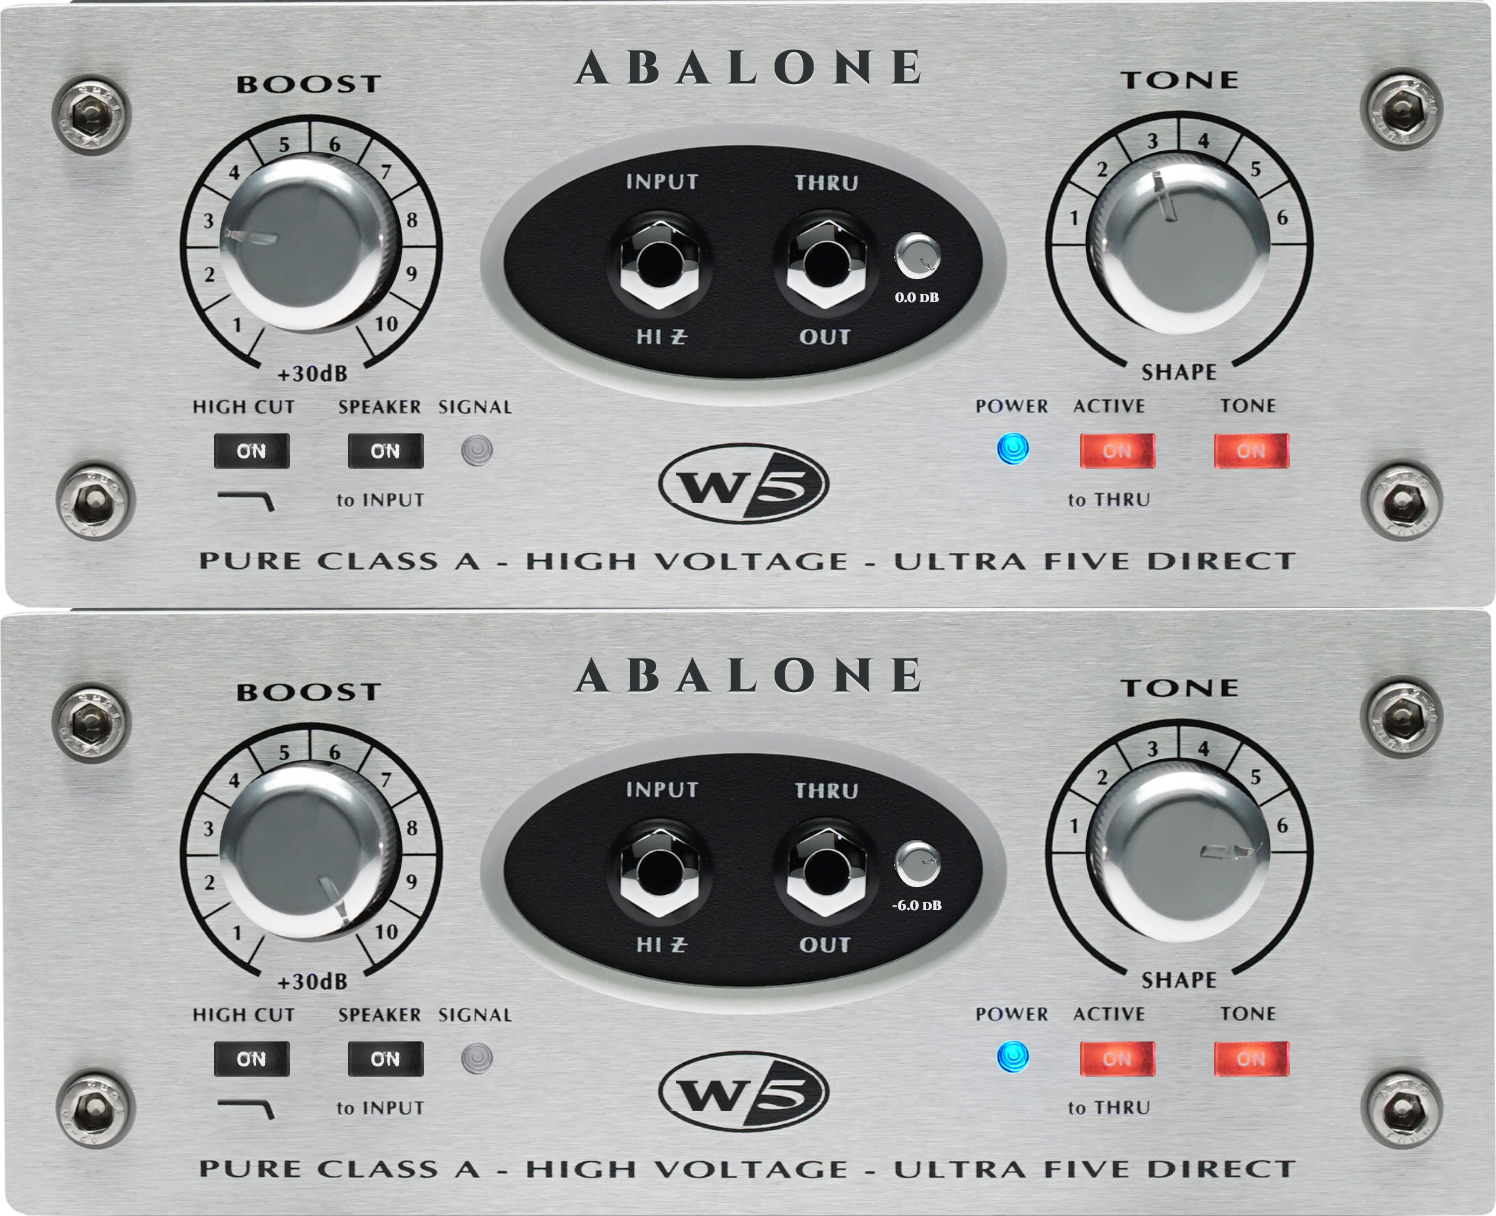
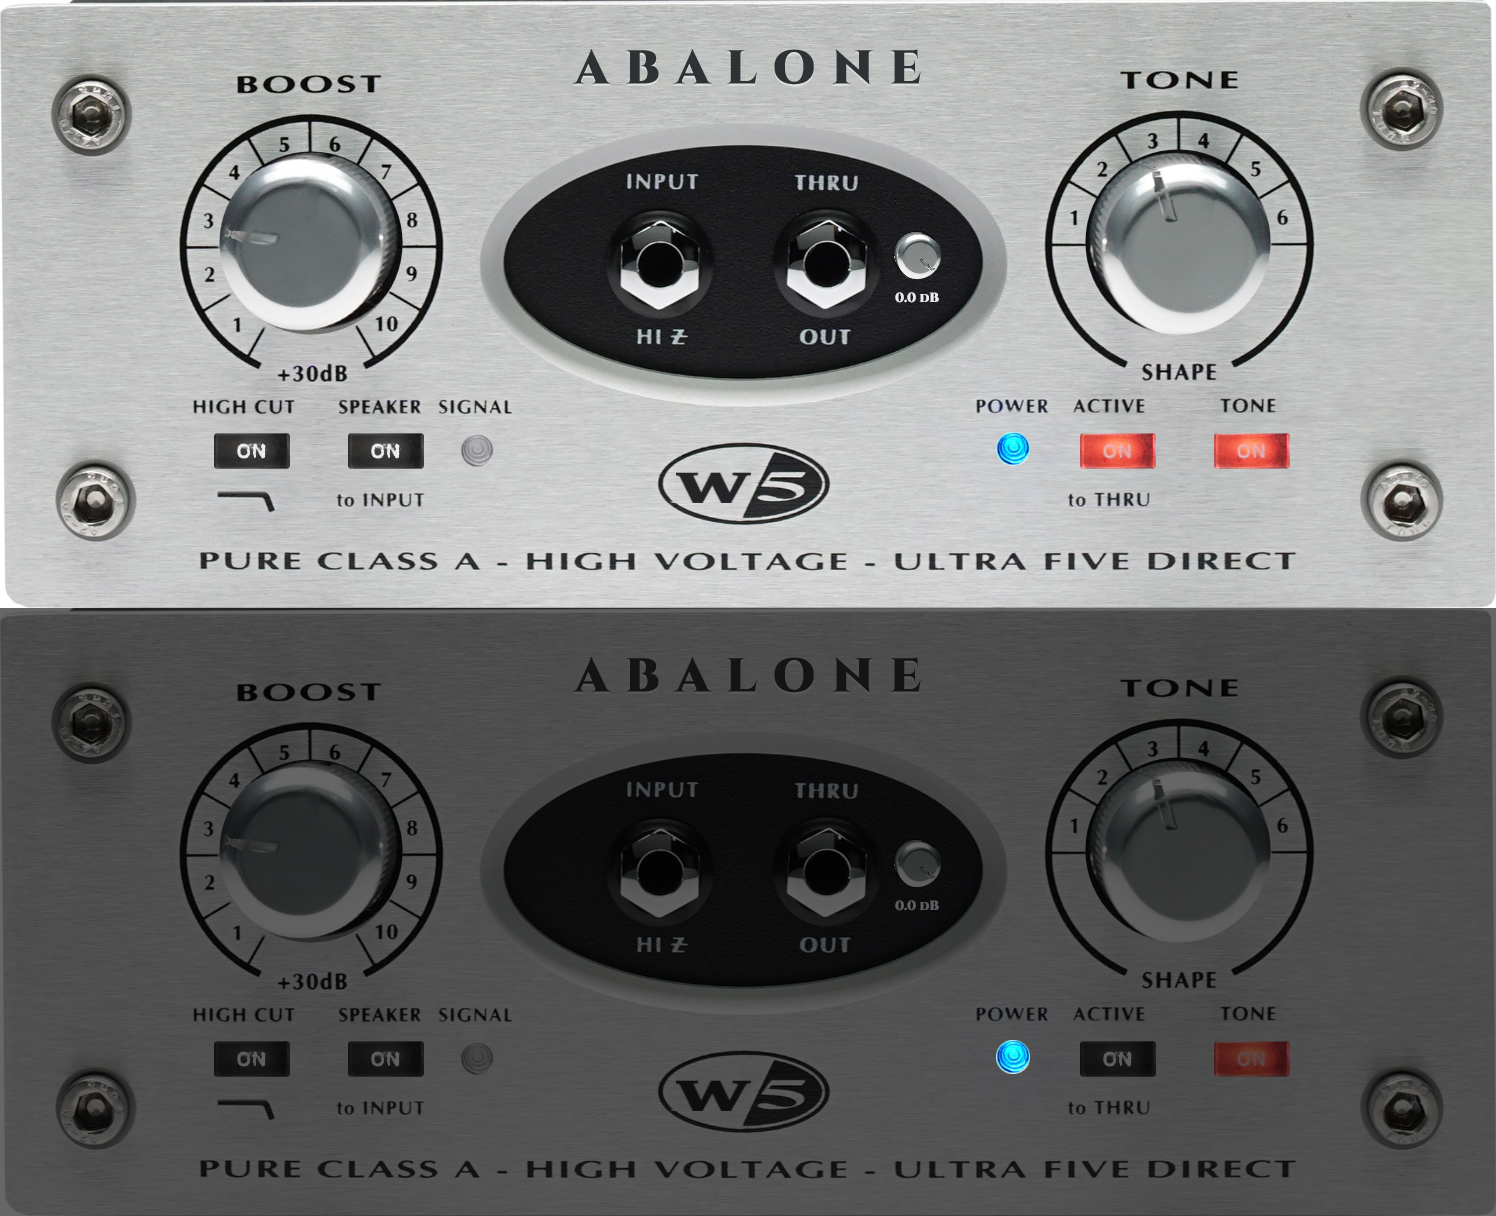
fix: POWER lamp always on (mains indicator)

diff --git a/src/PluginEditor.cpp b/src/PluginEditor.cpp
@@ -204,18 +204,18 @@ AbaloneW5AudioProcessorEditor::AbaloneW5AudioProcessorEditor (AbaloneW5AudioProc
     signalLedImage.setImage (ledOffImage);
     addAndMakeVisible (signalLedImage);
 
-    // Blue POWER LED: on while ACTIVE is engaged, dark when bypassed (the
-    // timer below drives it from the `active` param; initial state synced
-    // here so the first paint is correct).
-    powerLedImage.setImage (ledOnImage);
-    addAndMakeVisible (powerLedImage);
-
-    // Lights-off veil: topmost child (paints over LEDs/knobs), visible only
-    // while ACTIVE is off. Non-interactive so knob drags pass straight
-    // through to the controls beneath.
+    // Lights-off veil: ordered below the POWER LED (which stays bright as
+    // the mains lamp) but above every other control. Non-interactive so
+    // knob drags pass straight through to the controls beneath.
     dimOverlay.setInterceptsMouseClicks (false, false);
     dimOverlay.setVisible (false);
     addAndMakeVisible (dimOverlay);
+
+    // Blue POWER LED: mains lamp, ALWAYS lit while the plugin is open,
+    // independent of ACTIVE. Added after the veil so it paints above it
+    // and stays bright while everything else dims.
+    powerLedImage.setImage (ledOnImage);
+    addAndMakeVisible (powerLedImage);
 
     auto& apvts = processor.getApvts();
     boostAttachment =
@@ -241,13 +241,13 @@ AbaloneW5AudioProcessorEditor::AbaloneW5AudioProcessorEditor (AbaloneW5AudioProc
 
     setSize (kEditorWidth, kEditorHeight);
 
-    // Initial POWER + veil state from the `active` param (the timer keeps
-    // both live; this covers the first paint).
+    // Initial veil state from the `active` param (the timer keeps it live;
+    // this covers the first paint). POWER is a mains lamp — always on.
+    powerOn = true;
+    powerLedImage.setImage (ledOnImage);
     if (auto* activeParam = apvts.getParameter ("active"))
     {
-        powerOn = activeParam->getValue() > 0.5f;
-        powerLedImage.setImage (powerOn ? ledOnImage : ledOffImage);
-        dimVisible = !powerOn;
+        dimVisible = activeParam->getValue() <= 0.5f;
         dimOverlay.setVisible (dimVisible);
     }
 
@@ -322,18 +322,12 @@ void AbaloneW5AudioProcessorEditor::timerCallback ()
         signalLedImage.setImage (ledOn ? ledOnImage : ledOffImage);
     }
 
-    // POWER follows ACTIVE (dark while bypassed); the lights-off veil covers
-    // the panel in the same state and lifts instantly on re-engage. Both are
+    // Lights-off veil follows ACTIVE (lifts instantly on re-engage),
     // driven here on the existing 30Hz timer — no new threads, no fading.
+    // POWER is a mains lamp and is never driven dark.
     if (auto* activeParam = processor.getApvts().getParameter ("active"))
     {
-        const bool engaged = activeParam->getValue() > 0.5f;
-        if (engaged != powerOn)
-        {
-            powerOn = engaged;
-            powerLedImage.setImage (powerOn ? ledOnImage : ledOffImage);
-        }
-        const bool shouldDim = !engaged;
+        const bool shouldDim = activeParam->getValue() <= 0.5f;
         if (shouldDim != dimVisible)
         {
             dimVisible = shouldDim;

diff --git a/src/PluginEditor.h b/src/PluginEditor.h
@@ -27,8 +27,10 @@ class AbaloneW5AudioProcessor;
 //   DSP, chain states frozen, buffer untouched; a brief relay-style settle
 //   transient is possible on re-engage. Old states load as active. SPEAKER
 //   is hardware-only: it renders as a permanent OFF image and is
-//   non-interactive. ACTIVE off also veils the panel (DimOverlay) and kills
-//   the POWER LED; the SIGNAL LED follows the input peak while bypassed.
+//   non-interactive. ACTIVE off veils the panel (DimOverlay); the POWER
+//   LED is a mains lamp — always lit while the plugin is open, painted
+//   above the veil so it stays bright; the SIGNAL LED follows the input
+//   peak while bypassed.
 // - Photo knob bodies (knob_*_no_pointer.png) are NEVER rotated: baked
 //   off-axis highlights + edge dial-numeral fragments would swing. Bodies
 //   are drawn static and circular-clipped; value is shown by the extracted
@@ -106,10 +108,11 @@ struct PngToggleLookAndFeel : public juce::LookAndFeel_V4
 };
 
 // Lights-off overlay: ACTIVE off darkens the whole panel with a translucent
-// fill. A topmost non-interactive child (added last, full panel bounds), so
-// it dims every LED/knob beneath it and never blocks drags; visibility flips
-// instantly on re-engage from the existing 30Hz timer (no new threads, no
-// fade animation). POWER is separately driven dark while inactive.
+// fill. Ordered BELOW the POWER LED (which stays bright as the mains lamp)
+// but above every other control, so it dims knobs/buttons/SIGNAL while
+// POWER shines through. Non-interactive so drags pass through; visibility
+// flips instantly on re-engage from the existing 30Hz timer (no new threads,
+// no fade animation). POWER's image is set once and never driven dark.
 struct DimOverlay : public juce::Component
 {
     void paint (juce::Graphics& g) override { g.fillAll (juce::Colour (0x99000000)); }
